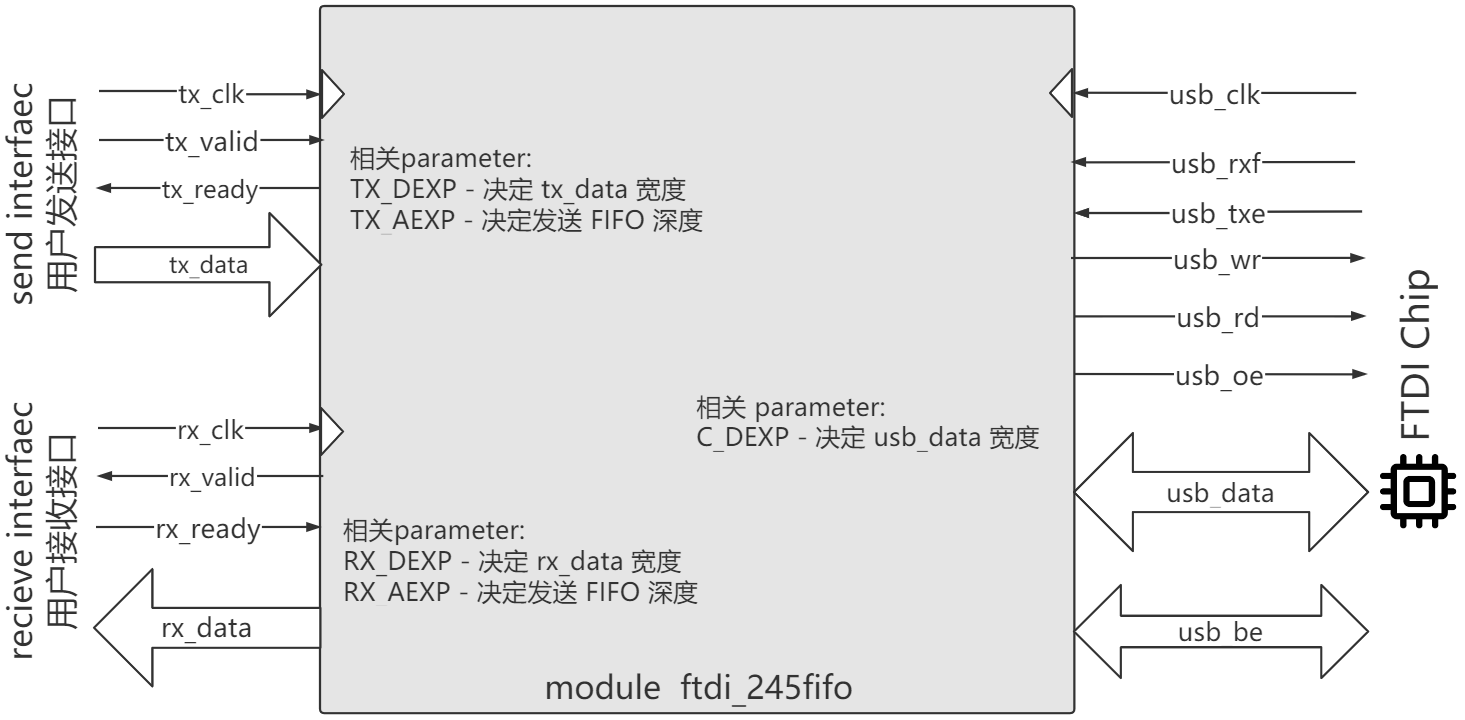
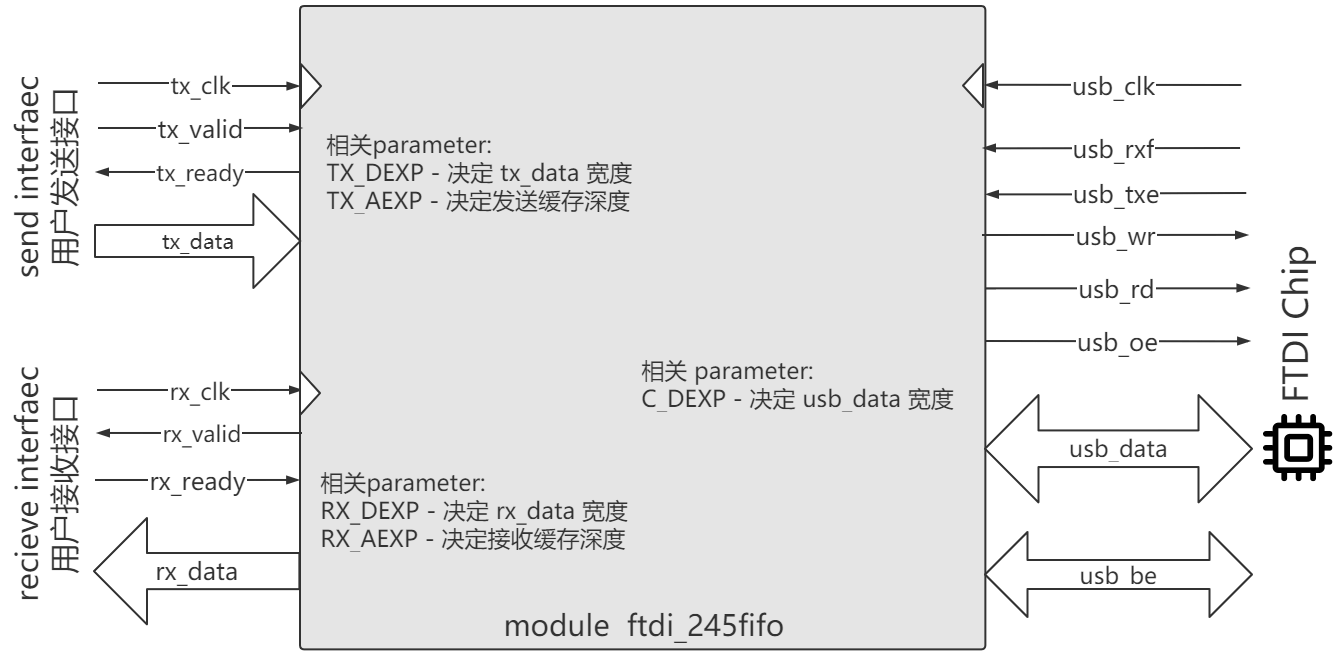
tinify png files

diff --git a/doc/Verilog_module_usage.md b/doc/Verilog_module_usage.md
@@ -2,11 +2,11 @@
 
 本库包含 3 个设计文件，供 FPGA 开发者调用来开发自己的 USB 通信业务，见下表。
 
-| 文件名                                                       | 说明                               |
-| ------------------------------------------------------------ | ---------------------------------- |
-| [**RTL/ftdi_245fifo.sv**](https://github.com/WangXuan95/FTDI-245fifo-interface/blob/master/RTL/ftdi_245fifo.sv) | 顶层模块，开发者应该直接调用它。   |
-| [**RTL/stream_async_fifo.sv**](https://github.com/WangXuan95/FTDI-245fifo-interface/blob/master/RTL/stream_async_fifo.sv) | 异步 FIFO，被顶层模块调用。        |
-| [**RTL/stream_wtrans.sv**](https://github.com/WangXuan95/FTDI-245fifo-interface/blob/master/RTL/stream_wtrans.sv) | 数据流位宽变换器，被顶层模块调用。 |
+| 文件名                                                       | 说明                                          |
+| ------------------------------------------------------------ | --------------------------------------------- |
+| [**RTL/ftdi_245fifo.sv**](https://github.com/WangXuan95/FTDI-245fifo-interface/blob/master/RTL/ftdi_245fifo.sv) | 顶层模块，开发者应该直接调用它。              |
+| [**RTL/stream_async_fifo.sv**](https://github.com/WangXuan95/FTDI-245fifo-interface/blob/master/RTL/stream_async_fifo.sv) | 异步 FIFO，用于实现收发缓存，被顶层模块调用。 |
+| [**RTL/stream_wtrans.sv**](https://github.com/WangXuan95/FTDI-245fifo-interface/blob/master/RTL/stream_wtrans.sv) | 数据流位宽变换器，被顶层模块调用。            |
 
 下面讲解顶层模块 **ftdi_245fifo** 的使用方法，它的接口和参数（parameter）如下图：
 
